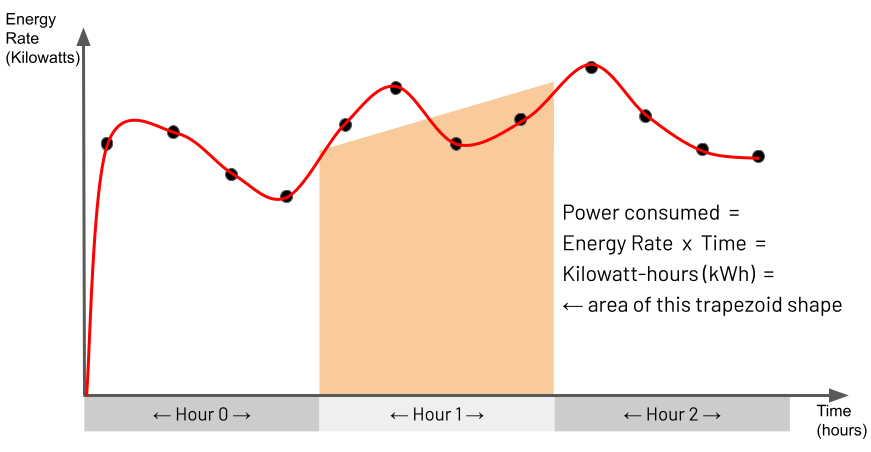
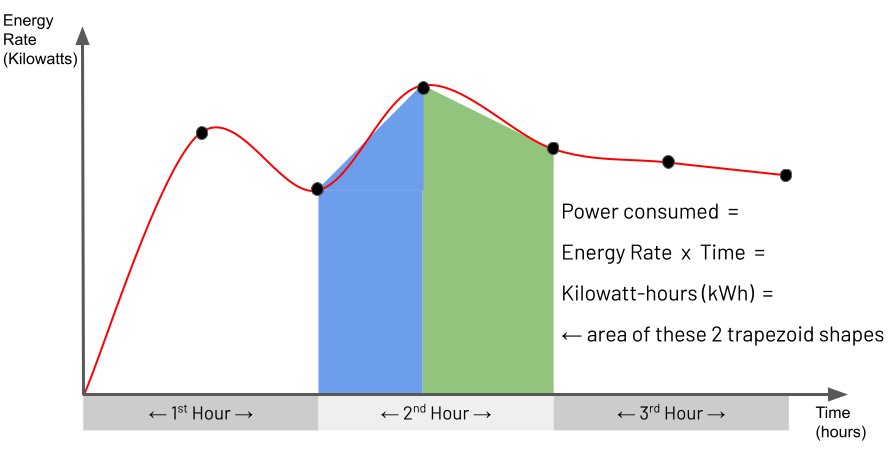
Minor tweaks for candidate 2.0 version

diff --git a/post-process-html.py b/post-process-html.py
@@ -32,8 +32,10 @@ large_pre_style_script_tag = """
 """
 end_head_html_target = '</head>'
 analytics_html_snippet = google_analytics_script_tag + '    ' + end_head_html_target
-large_pre_plus_analytics_html_snippet = large_pre_style_script_tag + google_analytics_script_tag
-                                        + '    ' + end_head_html_target
+large_pre_plus_analytics_html_snippet = (large_pre_style_script_tag + google_analytics_script_tag +
+                                         '    ' + end_head_html_target)
+start_title_html_target = '<title>'
+select_distinct_prefix_html_snippet = start_title_html_target + 'SQL SELECT DISTINCT equivalent: '
 
 
 ####
@@ -45,6 +47,7 @@ def main():
 
     for filepath in filepaths:
         add_extra_heaad_tags_to_html_file(filepath)
+        add_extra_select_distinct_text_to_html_file(filepath)
 
     print('Ending post-processing of HTML files')
 
@@ -67,6 +70,24 @@ def add_extra_heaad_tags_to_html_file(filepath):
         f.seek(0)
         f.write(text)
         f.truncate()
+
+
+####
+# Add 'SQL SELECT DISTINCT equivalent:' prefix to title of "Distinct List Of Values" example title
+# for SEO as commonly searched topic
+####
+def add_extra_select_distinct_text_to_html_file(filepath):
+    print(f' {filepath}')
+
+    with open(filepath, 'r+') as f:
+        text = f.read()
+
+        if filepath.endswith("distinct-values.html"):
+            print("  DISTINCT LIST OF VALUES - added extra SELECT DISTINCT title prefix")
+            text = re.sub(start_title_html_target, select_distinct_prefix_html_snippet, text)
+            f.seek(0)
+            f.write(text)
+            f.truncate()
 
 
 ####

diff --git a/src/examples/time-series/iot-power-consumption.md b/src/examples/time-series/iot-power-consumption.md
@@ -1,11 +1,11 @@
 # IOT Power Consumption
 
-__Minimum MongoDB Version:__ 5.0 &nbsp;&nbsp; _(due to use of $setWindowFields stage & $integral operator)_
+__Minimum MongoDB Version:__ 5.0 &nbsp;&nbsp; _(due to use of [$setWindowFields](https://docs.mongodb.com/manual/reference/operator/aggregation/setWindowFields/) stage & [$integral](https://docs.mongodb.com/manual/reference/operator/aggregation/integral/) operator)_
 
 
 ## Scenario
 
-You are monitoring various air-conditioning units running in two buildings on an industrial campus. Every 30 seconds, a device in each unit sends the unit's current power consumption reading back to base, which a central database persists. You want to analyse this data to see how much energy in kilowatt-hours (kWh) each air-conditioning unit has consumed over the last hour for each reading received. Furthermore, you want to compute the total energy consumed by all the air-conditioning units combined in each building for every hour.
+You are monitoring various air-conditioning units running in two buildings on an industrial campus. Every 30 minutes, a device in each unit sends the unit's current power consumption reading back to base, which a central database persists. You want to analyse this data to see how much energy in kilowatt-hours (kWh) each air-conditioning unit has consumed over the last hour for each reading received. Furthermore, you want to compute the total energy consumed by all the air-conditioning units combined in each building for every hour.
 
 ## Sample Data Population
 
@@ -15,7 +15,7 @@ Drop any old version of the database (if it exists) and then populate a new `dev
 use book-iot-power-consumption;
 db.dropDatabase();
 
-// Create compount index to support the partitionBy & sortBy of setWindowFields
+// Create compound index to aid performance for partitionBy & sortBy of setWindowFields
 db.device_readings.createIndex({"deviceID": 1, "timestamp": 1});
 
 // Insert 18 records into the device readings collection
@@ -24,19 +24,19 @@ db.device_readings.insertMany([
   {
     "buildingID": "Building-ABC", 
     "deviceID": "UltraAirCon-111",    
-    "timestamp": ISODate("2021-07-03T11:29:00Z"),
+    "timestamp": ISODate("2021-07-03T11:29:59Z"),
     "powerKilowatts": 8,     
   },
   {
     "buildingID": "Building-ABC",
     "deviceID": "UltraAirCon-222",    
-    "timestamp": ISODate("2021-07-03T11:29:00Z"),
+    "timestamp": ISODate("2021-07-03T11:29:59Z"),
     "powerKilowatts": 7,     
   },
   {
     "buildingID": "Building-XYZ",
     "deviceID": "UltraAirCon-666",    
-    "timestamp": ISODate("2021-07-03T11:29:00Z"),
+    "timestamp": ISODate("2021-07-03T11:29:59Z"),
     "powerKilowatts": 10,     
   },
   
@@ -44,19 +44,19 @@ db.device_readings.insertMany([
   {
     "buildingID": "Building-ABC",
     "deviceID": "UltraAirCon-222",    
-    "timestamp": ISODate("2021-07-03T11:59:00Z"),
+    "timestamp": ISODate("2021-07-03T11:59:59Z"),
     "powerKilowatts": 9,     
   },
   {
     "buildingID": "Building-ABC",
     "deviceID": "UltraAirCon-111",    
-    "timestamp": ISODate("2021-07-03T11:59:00Z"),
+    "timestamp": ISODate("2021-07-03T11:59:59Z"),
     "powerKilowatts": 8,     
   },
   {
     "buildingID": "Building-XYZ",
     "deviceID": "UltraAirCon-666",    
-    "timestamp": ISODate("2021-07-03T11:59:00Z"),
+    "timestamp": ISODate("2021-07-03T11:59:59Z"),
     "powerKilowatts": 11,     
   },
   
@@ -64,19 +64,19 @@ db.device_readings.insertMany([
   {
     "buildingID": "Building-ABC",
     "deviceID": "UltraAirCon-222",    
-    "timestamp": ISODate("2021-07-03T12:29:00Z"),
+    "timestamp": ISODate("2021-07-03T12:29:59Z"),
     "powerKilowatts": 9,     
   },
   {
     "buildingID": "Building-ABC",
     "deviceID": "UltraAirCon-111",    
-    "timestamp": ISODate("2021-07-03T12:29:00Z"),
+    "timestamp": ISODate("2021-07-03T12:29:59Z"),
     "powerKilowatts": 9,     
   },
   {
     "buildingID": "Building-XYZ",
     "deviceID": "UltraAirCon-666",    
-    "timestamp": ISODate("2021-07-03T12:29:00Z"),
+    "timestamp": ISODate("2021-07-03T12:29:59Z"),
     "powerKilowatts": 10,     
   },
 
@@ -84,19 +84,19 @@ db.device_readings.insertMany([
   {
     "buildingID": "Building-ABC",
     "deviceID": "UltraAirCon-222",    
-    "timestamp": ISODate("2021-07-03T12:59:00Z"),
+    "timestamp": ISODate("2021-07-03T12:59:59Z"),
     "powerKilowatts": 8,     
   },
   {
     "buildingID": "Building-ABC",
     "deviceID": "UltraAirCon-111",    
-    "timestamp": ISODate("2021-07-03T12:59:00Z"),
+    "timestamp": ISODate("2021-07-03T12:59:59Z"),
     "powerKilowatts": 8,     
   },
   {
     "buildingID": "Building-XYZ",
     "deviceID": "UltraAirCon-666",    
-    "timestamp": ISODate("2021-07-03T12:59:00Z"),
+    "timestamp": ISODate("2021-07-03T12:59:59Z"),
     "powerKilowatts": 11,     
   },
 
@@ -104,19 +104,19 @@ db.device_readings.insertMany([
   {
     "buildingID": "Building-ABC",
     "deviceID": "UltraAirCon-222",    
-    "timestamp": ISODate("2021-07-03T13:29:00Z"),
+    "timestamp": ISODate("2021-07-03T13:29:59Z"),
     "powerKilowatts": 9,     
   },
   {
     "buildingID": "Building-ABC",
     "deviceID": "UltraAirCon-111",    
-    "timestamp": ISODate("2021-07-03T13:29:00Z"),
+    "timestamp": ISODate("2021-07-03T13:29:59Z"),
     "powerKilowatts": 9,     
   },
   {
     "buildingID": "Building-XYZ",
     "deviceID": "UltraAirCon-666",    
-    "timestamp": ISODate("2021-07-03T13:29:00Z"),
+    "timestamp": ISODate("2021-07-03T13:29:59Z"),
     "powerKilowatts": 10,     
   },
 
@@ -124,19 +124,19 @@ db.device_readings.insertMany([
   {
     "buildingID": "Building-ABC",
     "deviceID": "UltraAirCon-222",    
-    "timestamp": ISODate("2021-07-03T13:59:00Z"),
+    "timestamp": ISODate("2021-07-03T13:59:59Z"),
     "powerKilowatts": 8,     
   },
   {
     "buildingID": "Building-ABC",
     "deviceID": "UltraAirCon-111",    
-    "timestamp": ISODate("2021-07-03T13:59:00Z"),
+    "timestamp": ISODate("2021-07-03T13:59:59Z"),
     "powerKilowatts": 8,     
   },
   {
     "buildingID": "Building-XYZ",
     "deviceID": "UltraAirCon-666",    
-    "timestamp": ISODate("2021-07-03T13:59:00Z"),
+    "timestamp": ISODate("2021-07-03T13:59:59Z"),
     "powerKilowatts": 11,     
   },
 ]);
@@ -149,7 +149,7 @@ Define a pipeline ready to perform an aggregation to calculate the energy an air
 
 ```javascript
 var pipelineRawReadings = [
-  // Calculate each unit's energy consumed over the last hour for each raading
+  // Calculate each unit's energy consumed over the last hour for each reading
   {"$setWindowFields": {
     "partitionBy": "$deviceID",
     "sortBy": {"timestamp": 1},    
@@ -173,7 +173,7 @@ Define a pipeline ready to compute the total energy consumed by all the air-cond
 
 ```javascript
 var pipelineBuildingsSummary = [
-  // Calculate each unit's energy consumed over the last hour for each raading
+  // Calculate each unit's energy consumed over the last hour for each reading
   {"$setWindowFields": {
     "partitionBy": "$deviceID",
     "sortBy": {"timestamp": 1},    
@@ -214,7 +214,7 @@ var pipelineBuildingsSummary = [
   }},    
 
   // Sum together the energy consumption for the whole building
-  // for each hour accross all the units in the building   
+  // for each hour across all the units in the building   
   {"$group": {
     "_id": {
       "buildingID": "$buildingID",
@@ -268,42 +268,42 @@ For the pipeline to calculate the energy an air-conditioning unit has consumed o
 ```javascript
 [
   {
-    _id: ObjectId("60e56c3b67efa144f838daec"),
+    _id: ObjectId("60ed5e679ea1f9f74814ca2b"),
     buildingID: 'Building-ABC',
     deviceID: 'UltraAirCon-111',
-    timestamp: ISODate("2021-07-03T11:29:00.000Z"),
+    timestamp: ISODate("2021-07-03T11:29:59.000Z"),
     powerKilowatts: 8,
     consumedKilowattHours: 0
   },
   {
-    _id: ObjectId("60e56c3b67efa144f838daf0"),
+    _id: ObjectId("60ed5e679ea1f9f74814ca2f"),
     buildingID: 'Building-ABC',
     deviceID: 'UltraAirCon-111',
-    timestamp: ISODate("2021-07-03T11:59:00.000Z"),
+    timestamp: ISODate("2021-07-03T11:59:59.000Z"),
     powerKilowatts: 8,
     consumedKilowattHours: 4
   },
   {
-    _id: ObjectId("60e56c3b67efa144f838daf3"),
+    _id: ObjectId("60ed5e679ea1f9f74814ca32"),
     buildingID: 'Building-ABC',
     deviceID: 'UltraAirCon-111',
-    timestamp: ISODate("2021-07-03T12:29:00.000Z"),
+    timestamp: ISODate("2021-07-03T12:29:59.000Z"),
     powerKilowatts: 9,
     consumedKilowattHours: 8.25
   },
   {
-    _id: ObjectId("60e56c3b67efa144f838daf6"),
+    _id: ObjectId("60ed5e679ea1f9f74814ca35"),
     buildingID: 'Building-ABC',
     deviceID: 'UltraAirCon-111',
-    timestamp: ISODate("2021-07-03T12:59:00.000Z"),
+    timestamp: ISODate("2021-07-03T12:59:59.000Z"),
     powerKilowatts: 8,
     consumedKilowattHours: 8.5
   },
   {
-    _id: ObjectId("60e56c3b67efa144f838daf9"),
+    _id: ObjectId("60ed5e679ea1f9f74814ca38"),
     buildingID: 'Building-ABC',
     deviceID: 'UltraAirCon-111',
-    timestamp: ISODate("2021-07-03T13:29:00.000Z"),
+    timestamp: ISODate("2021-07-03T13:29:59.000Z"),
     powerKilowatts: 9,
     consumedKilowattHours: 8.5
   },
@@ -352,15 +352,15 @@ For the pipeline to compute the total energy consumed by all the air-conditionin
 
 ## Observations
 
- * __Integral Trapezoidal Rule.__ As [documented in the MongoDB Manual](http://todo), `$integral` _"returns an approximation for the mathematical integral value, which is calculated using the trapezoidal rule"_. For non-mathematicians, this explanation may be hard to understand. You may find it easier to comprehend the behaviour of the `$integral` operator by studying the illustration below and the explanation that follows:
+ * __Integral Trapezoidal Rule.__ As [documented in the MongoDB Manual](https://docs.mongodb.com/manual/reference/operator/aggregation/integral/), `$integral` _"returns an approximation for the mathematical integral value, which is calculated using the trapezoidal rule"_. For non-mathematicians, this explanation may be hard to understand. You may find it easier to comprehend the behaviour of the `$integral` operator by studying the illustration below and the explanation that follows:
 
-     ![Example of calculating power consumption by approximating integrals using the trapezoidal rul ](./pics/trapezoidal-rule-example.png)
+     ![Example of calculating power consumption by approximating integrals using the trapezoidal rule](./pics/trapezoidal-rule-example.png)
 
-     Essentially the [trapezoidal rule](https://en.wikipedia.org/wiki/Trapezoidal_rule) determines the area of a region under a graph by matching the region with a trapezoid shape that approximately fits this region and then calculating the area of this trapezoid. You can see a set of points on the illustrated graph with the approximated trapezoid shape underneath spanning 1 hour. For this IOT Power Consumption example, the points on the graph represent an air-conditioning unit's captured power readings. The Y-axis is the _power rate_ in Kilowatts, and the X-axis is _time_ to indicate when the device captured each reading. Consequently, the energy consumed by an air-conditioning unit for a given hour is the area of the hour's specific region under the graph. Using the `$integral` operator for the window of time you define in the `$setWindowFields` stage, you are asking for this approximate area to be calculated, which is the Kilowatt-hours consumed by the air-conditioning unit in one hour.
+     Essentially the [trapezoidal rule](https://en.wikipedia.org/wiki/Trapezoidal_rule) determines the area of a region between two points under a graph by matching the region with a trapezoid shape that approximately fits this region and then calculating the area of this trapezoid. You can see a set of points on the illustrated graph with the matched trapezoid shape underneath each pair of points. For this IOT Power Consumption example, the points on the graph represent an air-conditioning unit's power readings captured every 30 minutes. The Y-axis is the _power rate_ in Kilowatts, and the X-axis is _time_ to indicate when the device captured each reading. Consequently, for this example, the energy consumed by the air-conditioning unit for a given hour's span is the area of the hour's specific section under the graph. This section's area is approximately the area of the two trapezoids shown. Using the `$integral` operator for the window of time you define in the `$setWindowFields` stage, you are asking for this approximate area to be calculated, which is the Kilowatt-hours consumed by the air-conditioning unit in one hour.
 
  * __Window Range Definition.__ For every captured document representing a device reading, this example's pipeline identifies a window of _1-hour_ of previous documents relative to this _current_ document. The pipeline uses this set of documents as the input for the `$integral` operator. It defines this window range in the setting `range: [-1, "current"], unit: "hour"`. The pipeline assigns the output of the `$integral` calculation to a new field called `consumedKilowattHours`.
 
  * __One Hour Range Vs Hours Output.__ The fact that the `$setWindowFields` stage in the pipeline defines `unit: "hour"` in two places may appear redundant at face value. However, this is not the case, and each serves a different purpose. As described in the previous observation, `unit: "hour"` for the `"window"` option helps dictate the size of the window of the previous number of documents to analyse. However, `unit: "hour"` for the `$integral` operator defines that the output should be in hours ("Kilowatt-hours" in this example), yielding the result `consumedKilowattHours: 8.5` for one of the processed device readings. However, if the pipeline defined this `$integral` parameter to be `"unit": "minute"` instead, which is perfectly valid, the output value would be `510` Kilowatt-minutes (i.e. 8.5 x 60 minutes).
  
- * __Index for Partition By & Sort By.__ In this example, you define the index `{deviceID: 1, timestamp: 1}` to support the combination of the `partitionBy` and `sortBy` parameters for the `$setWindowFields` stage. This means that the aggregation runtime does not have to perform a slow in-memory sort based on these two fields, and it also avoids the pipeline stage memory limit of 100 MB.
+ * __Index for Partition By & Sort By.__ In this example, you define the index `{deviceID: 1, timestamp: 1}` to optimise the use of the combination of the `partitionBy` and `sortBy` parameters in the `$setWindowFields` stage. This means that the aggregation runtime does not have to perform a slow in-memory sort based on these two fields, and it also avoids the pipeline stage memory limit of 100 MB.
 

diff --git a/src/guides/project.md b/src/guides/project.md
@@ -6,9 +6,9 @@ The quintessential tool used in MongoDB's Query Language (MQL) to define or rest
 
  2. __*$project* is verbose and inflexible__. If you want to define one new field or revise one field, you will have to name all other fields in the projection to include. If each input record has 100 fields and the pipeline needs to employ a `$project` stage for the first time, things become tiresome. To include a new 101st field, you now also have to name all the original 100 fields in this new `$project` stage too. You will find this irritating if you have an evolving data model, where additional new fields appear in some records over time. Because you use a `$project` for inclusion, then each time a new field appears in the data set, you must go back to the old aggregation pipeline to modify it to name the new field explicitly for inclusion in the results. This is the antithesis of flexibility and agility.
 
-In MongoDB version 4.2, the [$set](https://docs.mongodb.com/manual/reference/operator/aggregation/set/) and [$unset](https://docs.mongodb.com/manual/reference/operator/aggregation/unset/) stages were introduced, which, in most cases, are preferable to using `$project` for declaring field inclusion and exclusion. They make the code's intent much clearer, lead to less verbose pipelines, and, critically, they reduce the need to refactor a pipeline whenever the data model evolves. How this works and guidance on when to use `$set` & `$unset` stages is described in the section _[When To Use $set & $unset](#when_to_use_set_unset)_, further below.
+In MongoDB version 4.2, the [$set](https://docs.mongodb.com/manual/reference/operator/aggregation/set/) and [$unset](https://docs.mongodb.com/manual/reference/operator/aggregation/unset/) stages were introduced, which, in most cases, are preferable to using `$project` for declaring field inclusion and exclusion. They make the code's intent much clearer, lead to less verbose pipelines, and, critically, they reduce the need to refactor a pipeline whenever the data model evolves. How this works and guidance on when to use `$set` & `$unset` stages is described in the section _[When To Use Set & Unset](#when_to_use_set_unset)_, further below.
 
-Despite the challenges, though, there are some specific situations where using `$project` is advantageous over `$set`/`$unset`. These situations are described in the section _[When To Use $project](#when_to_use_project)_ further below. 
+Despite the challenges, though, there are some specific situations where using `$project` is advantageous over `$set`/`$unset`. These situations are described in the section _[When To Use Project](#when_to_use_project)_ further below. 
 
 > _MongoDB version 3.4 addressed some of the disadvantages of `$project` by introducing a new [$addFields](https://docs.mongodb.com/manual/reference/operator/aggregation/addFields/) stage, which has the same behaviour as `$set`. `$set` came later than `$addFields`and `$set` is actually just an alias for `$addFields`. However, back then, the Aggregation Framework provided no direct equivalent to `$unset`. Both `$set` and `$unset` stages are available in modern versions of MongoDB, and their counter purposes are obvious to deduce by their names (`$set` Vs `$unset`). The name `$addFields` doesn't fully reflect that you can modify existing fields rather than just adding new fields. This book prefers `$set` over `$addFields` to help promote consistency and avoid any confusion of intent. However, if you are wedded to `$addFields`, use that instead, as there is no behavioural difference._
 

diff --git a/src/guides/expressions.md b/src/guides/expressions.md
@@ -60,7 +60,7 @@ In most cases, only one of the listed stages needs to be more expressive: the `$
 
 The previously stated generalisation about `$match` not supporting expressions is actually inaccurate. Version 3.6 of MongoDB introduced the [$expr operator](https://docs.mongodb.com/manual/reference/operator/query/expr/), which you can embed within a `$match` stage (or in MQL) to leverage aggregation expressions when filtering records. Essentially, this enables MongoDB's query runtime (which executes an aggregation's `$match`) to re-use expressions provided by MongoDB's aggregation runtime.
 
-Inside an  `$expr` operator, you can include any composite expression fashioned from `$` operator functions, `$` field paths and `$$` variables. A few situations demand having to use $expr from inside a $match stage. Examples include:
+Inside an  `$expr` operator, you can include any composite expression fashioned from `$` operator functions, `$` field paths and `$$` variables. A few situations demand having to use `$expr` from inside a `$match` stage. Examples include:
 
  * A requirement to compare two fields from the same record to determine whether to keep the record based on the comparison's outcome
  

diff --git a/src/credits.md b/src/credits.md
@@ -4,7 +4,7 @@
 
 Author: Paul Done ([@TheDonester](https://twitter.com/TheDonester))
 
-Version: 2-.00beta7
+Version: 2.00beta8
 
 Last Updated: July 2021
 
